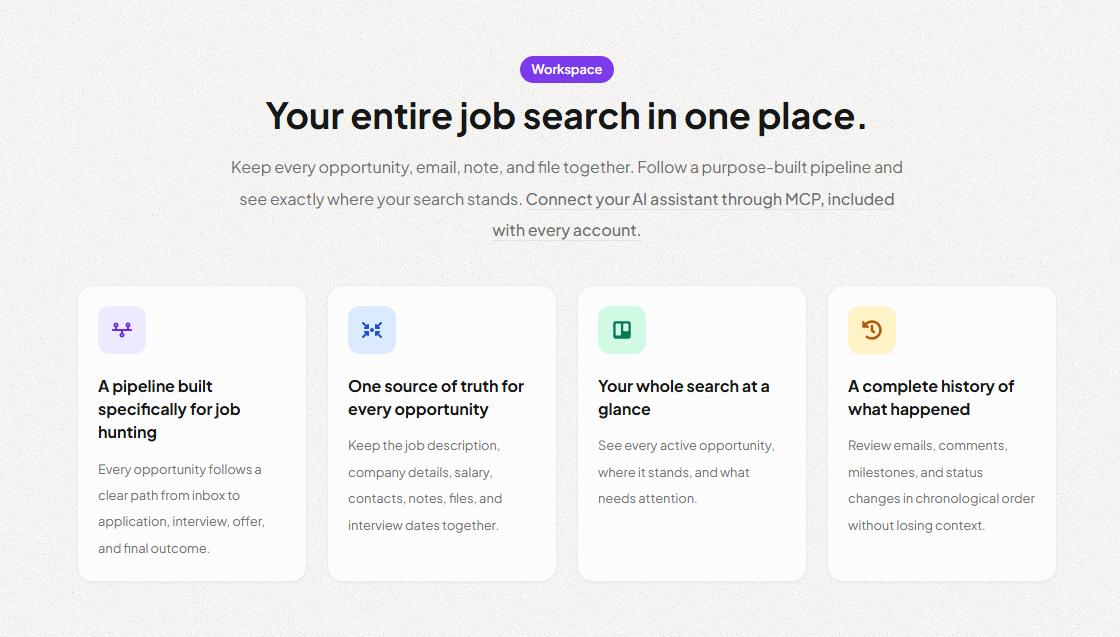
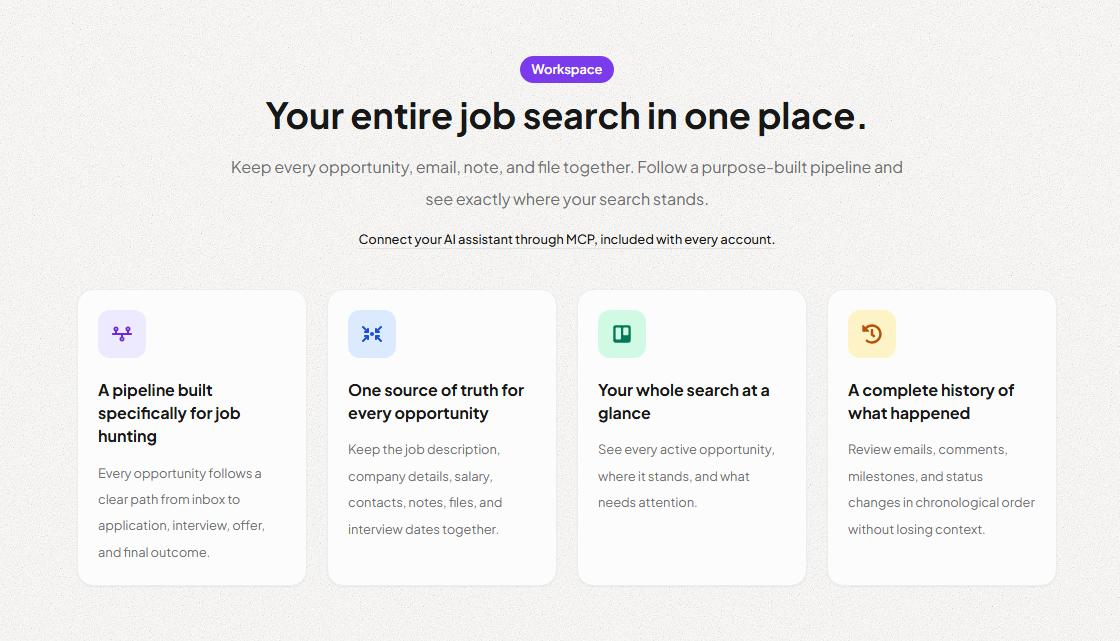
fix: align MCP marketing link and feature tile styling

diff --git a/apps/web/src/pages/get-started.tsx b/apps/web/src/pages/get-started.tsx
@@ -1052,26 +1052,26 @@ export default function GetStartedPage() {
                     liftOnHover={false}
                   />
                 ))}
+                <div id="mcp" className="scroll-mt-24">
+                  <FeatureCard
+                    icon={HiOutlineChatBubbleLeft}
+                    title={t`AI assistant access (MCP)`}
+                    description={
+                      <>
+                        <p>{t`Connect a compatible AI assistant to read and manage your opportunities and shortlists.`}</p>
+                        <p className="mt-3">{t`MCP is available to every shortlistOS account.`}</p>
+                        <Link
+                          href="/settings/mcp"
+                          className="mt-3 inline-block font-medium underline decoration-light-500 underline-offset-4 hover:decoration-light-1000 dark:decoration-dark-500 dark:hover:decoration-dark-1000"
+                        >
+                          {t`MCP settings`}
+                        </Link>
+                      </>
+                    }
+                    liftOnHover={false}
+                  />
+                </div>
               </div>
-            </div>
-            <div id="mcp" className="mt-8 scroll-mt-24">
-              <FeatureCard
-                icon={HiOutlineChatBubbleLeft}
-                title={t`AI assistant access (MCP)`}
-                description={
-                  <>
-                    <p>{t`Connect a compatible AI assistant to read and manage your opportunities and shortlists.`}</p>
-                    <p className="mt-3">{t`MCP is available to every shortlistOS account.`}</p>
-                    <Link
-                      href="/settings/mcp"
-                      className="mt-3 inline-block font-medium underline decoration-light-500 underline-offset-4 hover:decoration-light-1000 dark:decoration-dark-500 dark:hover:decoration-dark-1000"
-                    >
-                      {t`MCP settings`}
-                    </Link>
-                  </>
-                }
-                liftOnHover={false}
-              />
             </div>
           </Section>
 

diff --git a/apps/web/src/views/home/index.tsx b/apps/web/src/views/home/index.tsx
@@ -169,10 +169,10 @@ export default function HomeView() {
           title={t`Your entire job search in one place.`}
           description={
             <>
-              {t`Keep every opportunity, email, note, and file together. Follow a purpose-built pipeline and see exactly where your search stands.`}{" "}
+              {t`Keep every opportunity, email, note, and file together. Follow a purpose-built pipeline and see exactly where your search stands.`}
               <Link
                 href="/get-started#mcp"
-                className="font-medium underline decoration-light-500 underline-offset-4 hover:decoration-light-1000 dark:decoration-dark-500 dark:hover:decoration-dark-1000"
+                className="mt-4 block text-sm font-medium leading-normal text-light-1000 underline decoration-light-500 underline-offset-4 hover:decoration-light-1000 dark:text-dark-1000 dark:decoration-dark-500 dark:hover:decoration-dark-1000"
               >
                 {t`Connect your AI assistant through MCP, included with every account.`}
               </Link>
